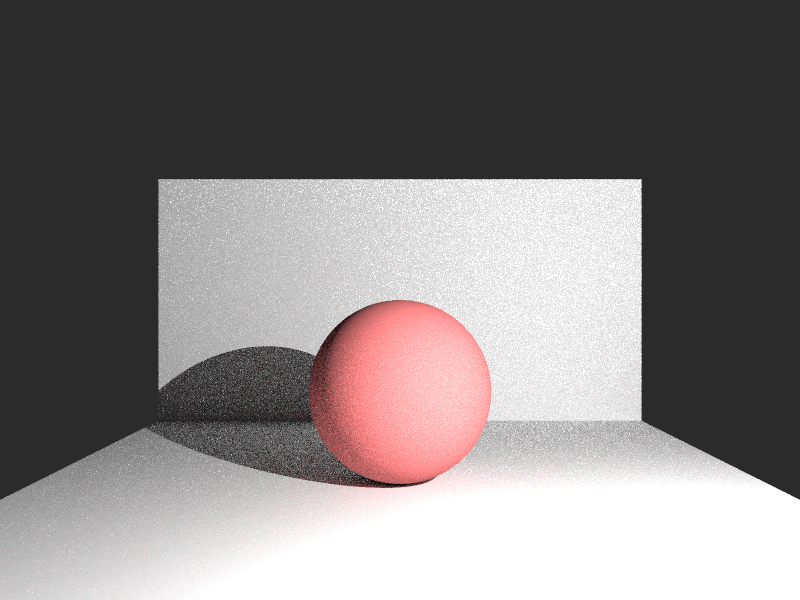
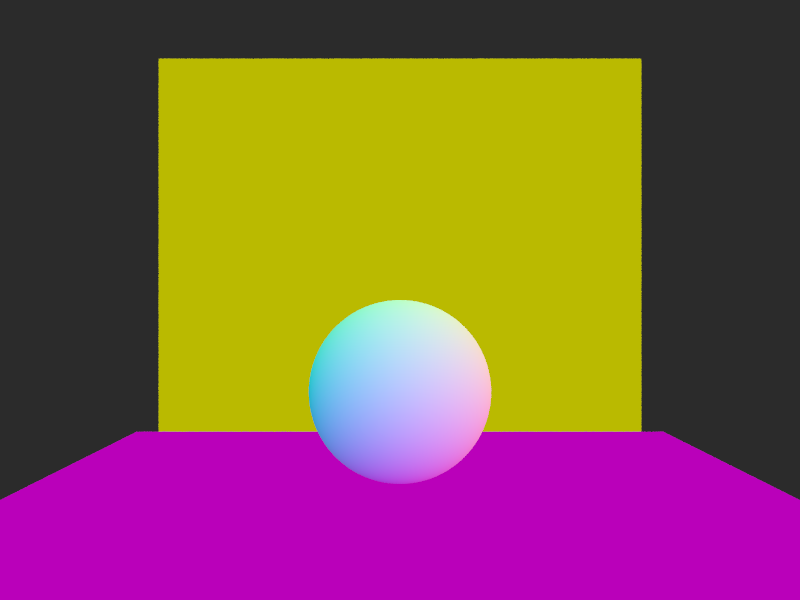
bad normals, more lights

diff --git a/src/main.rs b/src/main.rs
@@ -205,11 +205,37 @@ impl Hittable for Triangle {
 }
 
 // -------------------------
-// Quad helper function
+// New quad helper: build a square quad from center, normal, half_size
 // -------------------------
-// Given four vertices (in order), returns two triangles.
-// The vertices should be ordered so that the computed normal points
-// in the desired direction.
+fn quad_from_center(
+    center: Vector3<f32>,
+    normal: Vector3<f32>,
+    half_size: f32,
+    color: Vector3<f32>,
+) -> Vec<Box<dyn Hittable>> {
+    // Build an orthonormal basis.
+    let arbitrary = if normal.x.abs() > 0.9 {
+        Vector3::new(0.0, 1.0, 0.0)
+    } else {
+        Vector3::new(1.0, 0.0, 0.0)
+    };
+    // Compute tangent and bitangent.
+    // Here we want T and B such that the computed normal (via cross product of (v1-v0) and (v2-v0)) equals the given normal.
+    let tangent = normal.cross(&arbitrary).normalize(); // T = normal × arbitrary
+    let bitangent = tangent.cross(&normal).normalize(); // B = T × normal
+                                                        // Use the following ordering so that the first triangle (v0,v1,v2) gives:
+                                                        // v0 = center – T*half_size – B*half_size
+                                                        // v1 = center – T*half_size + B*half_size
+                                                        // v2 = center + T*half_size + B*half_size
+                                                        // v3 = center + T*half_size – B*half_size
+    let v0 = center - tangent * half_size - bitangent * half_size;
+    let v1 = center - tangent * half_size + bitangent * half_size;
+    let v2 = center + tangent * half_size + bitangent * half_size;
+    let v3 = center + tangent * half_size - bitangent * half_size;
+    quad(v0, v1, v2, v3, color)
+}
+
+// Old quad helper.
 fn quad(
     v0: Vector3<f32>,
     v1: Vector3<f32>,
@@ -217,7 +243,6 @@ fn quad(
     v3: Vector3<f32>,
     color: Vector3<f32>,
 ) -> Vec<Box<dyn Hittable>> {
-    // Two triangles: (v0, v1, v2) and (v0, v2, v3)
     vec![
         Box::new(Triangle { v0, v1, v2, color }),
         Box::new(Triangle {
@@ -345,6 +370,7 @@ fn sample_light(light: &Light, hit_point: &Vector3<f32>) -> LightSample {
     }
 }
 
+// Average direct samples for a single light.
 fn direct_light(
     hit: &HitRecord,
     light: &Light,
@@ -368,6 +394,20 @@ fn direct_light(
     }
     sum /= num_samples as f32;
     hit.color.component_mul(&sum) / std::f32::consts::PI
+}
+
+// Sum contributions from all lights.
+fn direct_light_all(
+    hit: &HitRecord,
+    lights: &[Light],
+    world: &dyn Hittable,
+    rng: &mut impl Rng,
+) -> Vector3<f32> {
+    let mut total = Vector3::zeros();
+    for light in lights {
+        total += direct_light(hit, light, world, rng);
+    }
+    total
 }
 
 fn in_shadow(ray: &Ray, t_max: f32, world: &dyn Hittable) -> bool {
@@ -396,7 +436,7 @@ fn cosine_weighted_sample_hemisphere(normal: &Vector3<f32>, rng: &mut impl Rng) 
 fn radiance(
     ray: &Ray,
     world: &dyn Hittable,
-    light: &Light,
+    lights: &[Light],
     rng: &mut impl Rng,
     depth: u32,
 ) -> Vector3<f32> {
@@ -407,7 +447,7 @@ fn radiance(
         if DEBUG_NORMALS {
             return (hit.normal + Vector3::new(1.0, 1.0, 1.0)) * 0.5;
         }
-        let direct = direct_light(&hit, light, world, rng);
+        let direct = direct_light_all(&hit, lights, world, rng);
         let new_dir = cosine_weighted_sample_hemisphere(&hit.normal, rng);
         let new_origin = hit.point + hit.normal * 0.001;
         let indirect = radiance(
@@ -416,7 +456,7 @@ fn radiance(
                 direction: new_dir,
             },
             world,
-            light,
+            lights,
             rng,
             depth - 1,
         );
@@ -432,22 +472,24 @@ fn radiance(
 fn reference_scene() -> Vec<Box<dyn Hittable>> {
     let mut objects: Vec<Box<dyn Hittable>> = Vec::new();
 
-    // Create floor quad.
+    // Create floor quad via our new helper.
     let floor_color = Vector3::new(0.9, 0.9, 0.9);
-    let floor_v0 = Vector3::new(-2.0, 0.0, -5.0);
-    let floor_v1 = Vector3::new(-2.0, 0.0, 0.0);
-    let floor_v2 = Vector3::new(2.0, 0.0, 0.0);
-    let floor_v3 = Vector3::new(2.0, 0.0, -5.0);
-    objects.extend(quad(floor_v0, floor_v1, floor_v2, floor_v3, floor_color));
+    // Floor center at (0,0,-2.5) with normal upward.
+    let floor_center = Vector3::new(0.0, 0.0, -2.5);
+    let floor_normal = Vector3::new(0.0, 1.0, 0.0);
+    objects.extend(quad_from_center(
+        floor_center,
+        floor_normal,
+        2.0,
+        floor_color,
+    ));
 
-    // Create back wall quad.
-    // Use the natural counterclockwise order so that the computed normal is (0,0,1).
+    // Create back wall quad via our helper.
     let wall_color = Vector3::new(0.9, 0.9, 0.9);
-    let wall_v0 = Vector3::new(-2.0, 0.0, -5.0);
-    let wall_v1 = Vector3::new(2.0, 0.0, -5.0);
-    let wall_v2 = Vector3::new(2.0, 2.0, -5.0);
-    let wall_v3 = Vector3::new(-2.0, 2.0, -5.0);
-    objects.extend(quad(wall_v0, wall_v1, wall_v2, wall_v3, wall_color));
+    // Back wall centered at (0,1,-5) with normal pointing toward the camera (0,0,1)
+    let wall_center = Vector3::new(0.0, 1.0, -5.0);
+    let wall_normal = Vector3::new(0.0, 0.0, 1.0);
+    objects.extend(quad_from_center(wall_center, wall_normal, 2.0, wall_color));
 
     // Diffuse sphere.
     let sphere_color = Vector3::new(0.8, 0.2, 0.2);
@@ -471,10 +513,25 @@ fn main() {
     let objects = reference_scene();
     let world = BVHNode::new(objects);
 
-    let light = Light {
-        position: Vector3::new(1.5, 1.5, -0.5),
-        intensity: Vector3::new(50.0, 50.0, 50.0),
-    };
+    // Create four lights of varying colors.
+    let lights = vec![
+        Light {
+            position: Vector3::new(1.5, 1.5, -0.5),
+            intensity: Vector3::new(50.0, 50.0, 50.0), // white
+        },
+        Light {
+            position: Vector3::new(-1.5, 1.5, -0.5),
+            intensity: Vector3::new(50.0, 10.0, 10.0), // reddish
+        },
+        Light {
+            position: Vector3::new(0.0, 1.5, 0.5),
+            intensity: Vector3::new(10.0, 50.0, 10.0), // greenish
+        },
+        Light {
+            position: Vector3::new(1.5, 2.5, -1.5),
+            intensity: Vector3::new(10.0, 10.0, 50.0), // bluish
+        },
+    ];
 
     let camera_pos = Vector3::new(0.0, 1.0, 1.0);
     let fov_deg: f32 = 45.0;
@@ -487,9 +544,6 @@ fn main() {
 
     for j in 0..height {
         for i in 0..width {
-            if j % 10 == 0 && i % 10 == 0 {
-                println!("height {} width {}", j, i);
-            }
             let mut pixel_color = Vector3::zeros();
             for _ in 0..samples_per_pixel {
                 let u = (i as f32 + rng.gen::<f32>()) / width as f32;
@@ -501,7 +555,7 @@ fn main() {
                     origin: camera_pos,
                     direction: ray_dir,
                 };
-                pixel_color += radiance(&ray, &world, &light, &mut rng, max_depth);
+                pixel_color += radiance(&ray, &world, &lights, &mut rng, max_depth);
             }
             pixel_color /= samples_per_pixel as f32;
             let gamma = 2.2;
